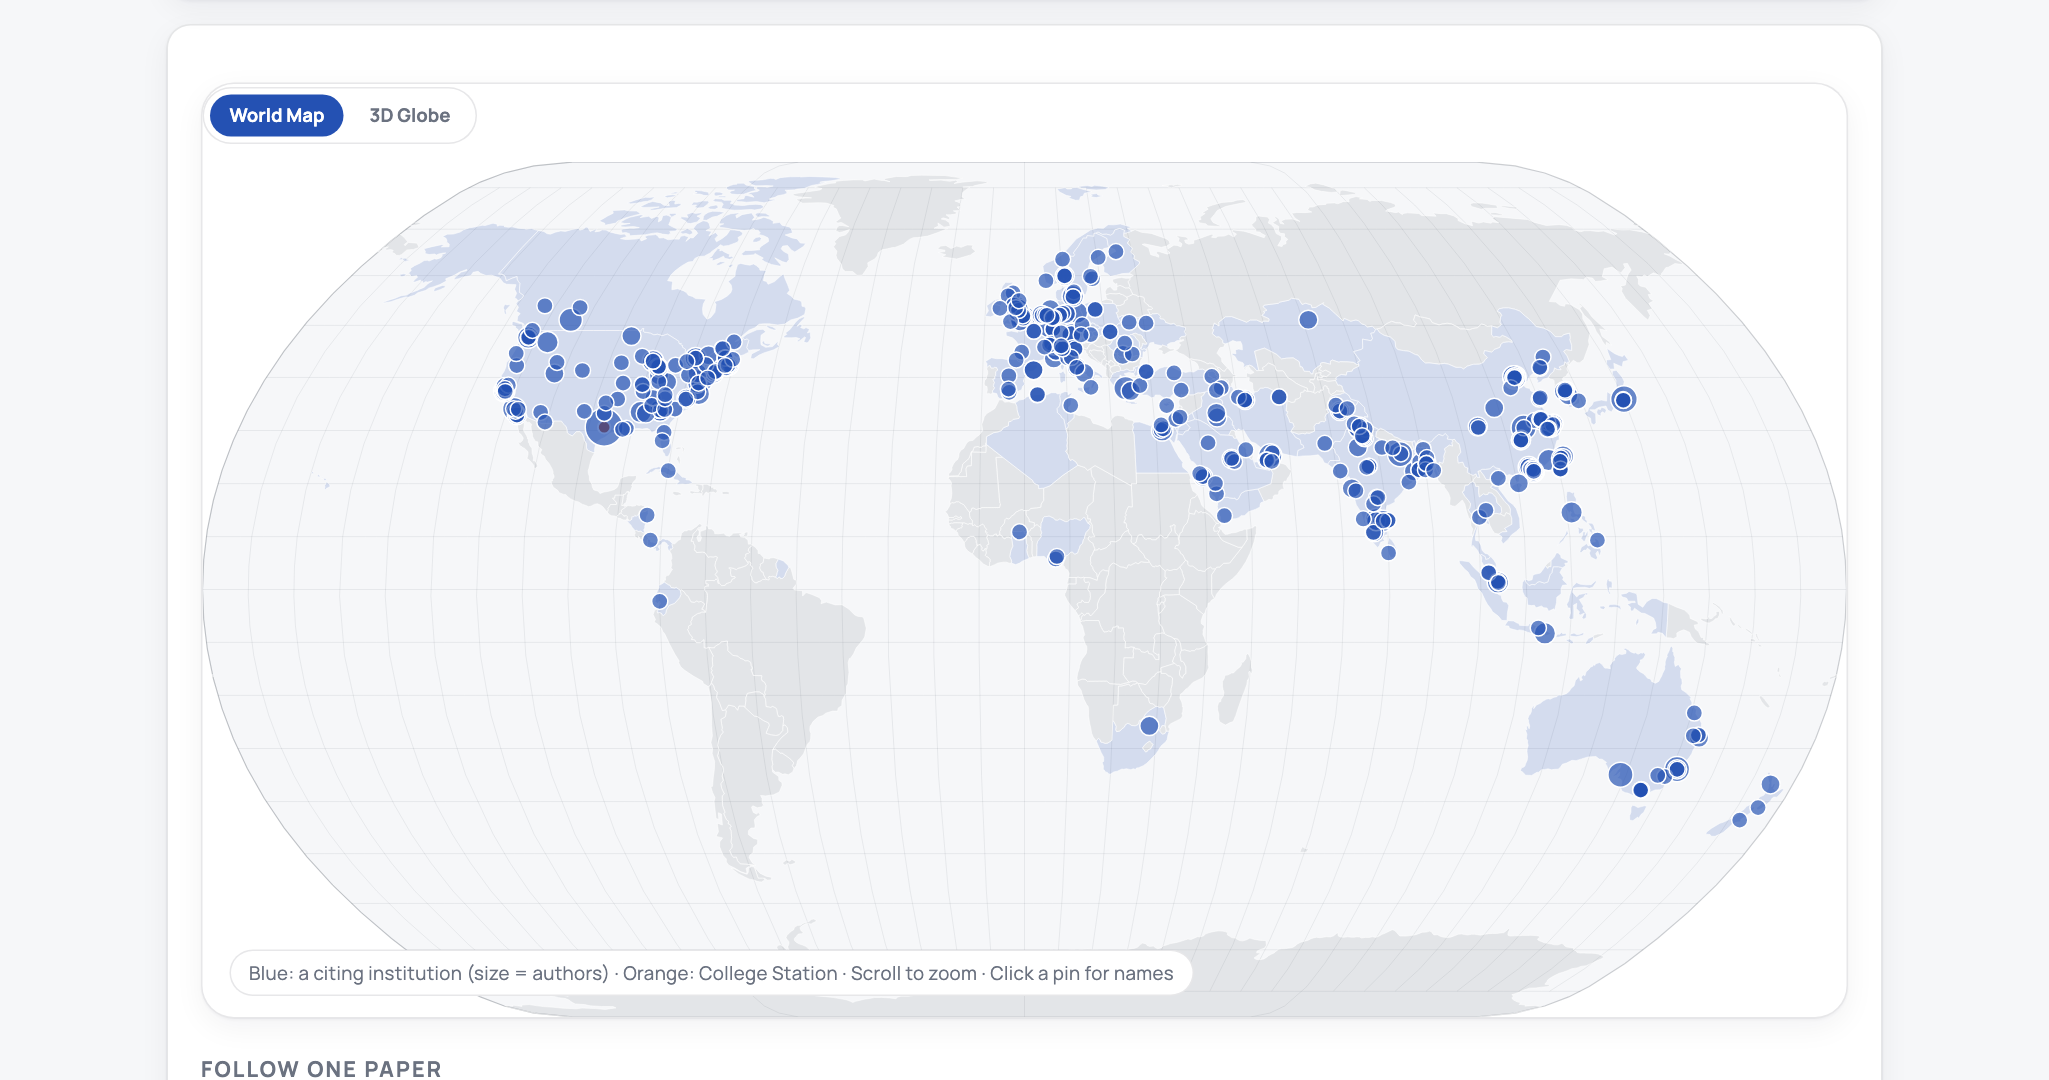
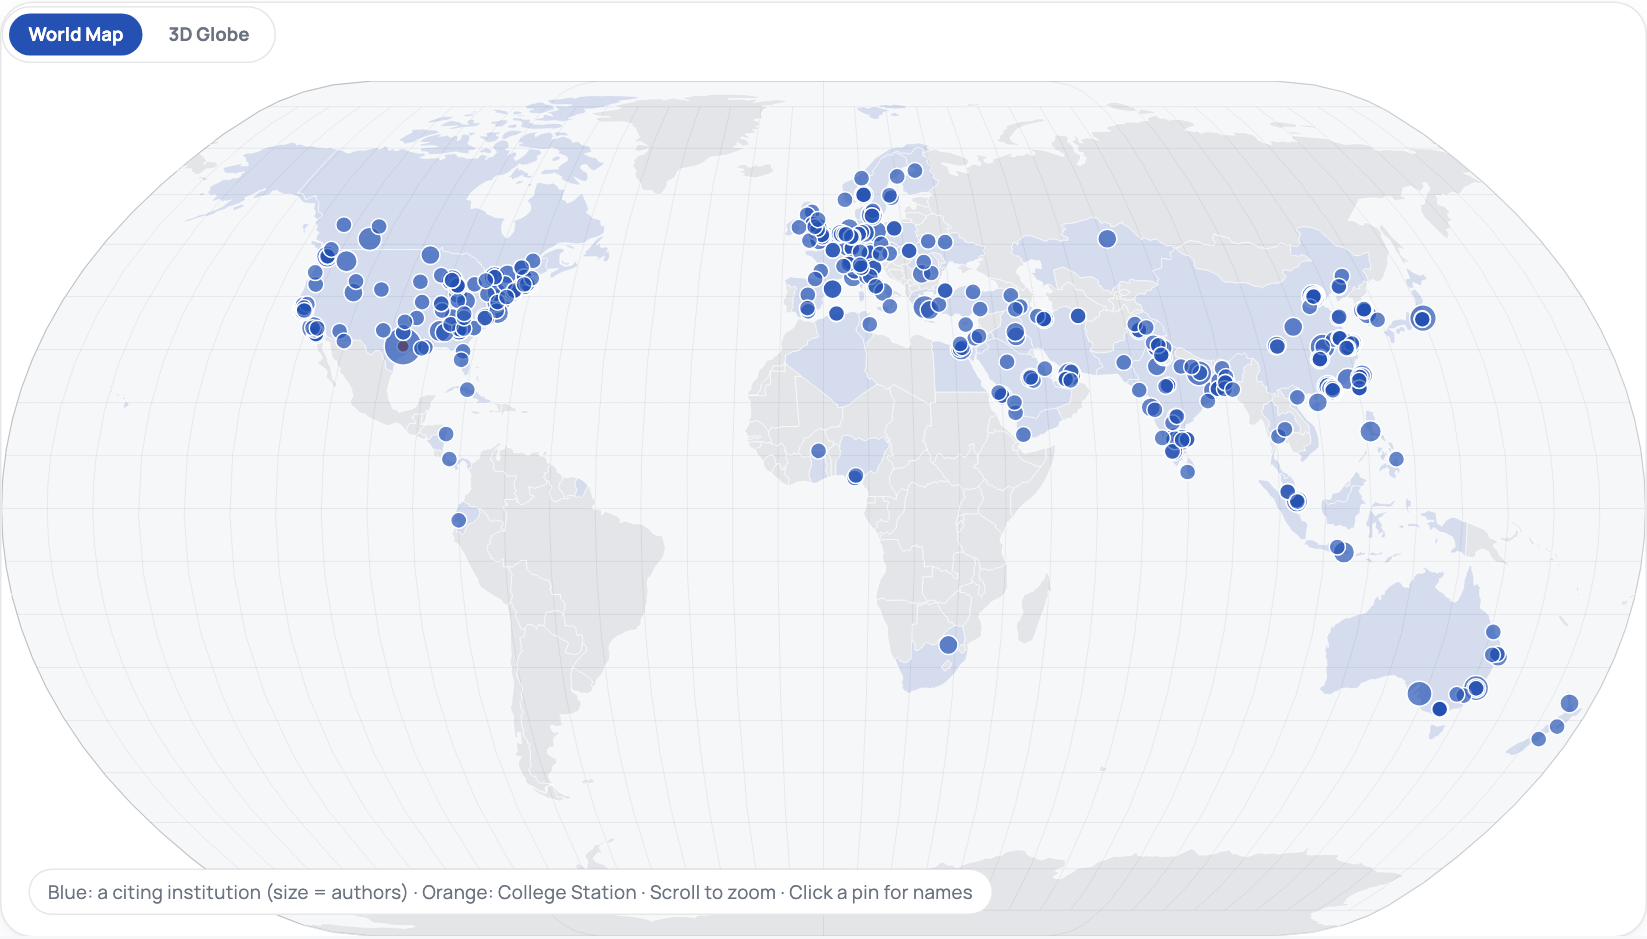
Replace the README travel-map preview under a new filename
GitHub's image proxy keeps serving the old dark screenshot for a reused
path, so the light-theme capture now lives at
assets/travel-map-light-preview.png (full map container, nothing cropped).
The citation-map preview is recaptured the same way.

diff --git a/README.md b/README.md
@@ -75,7 +75,7 @@ The default county-level view lights up every county within a visited state — 
 
 <p align="center">
   <a href="https://rayford295.github.io/rayford-knowledge-atlas/map/">
-    <img src="./assets/travel-map-county-preview.png" alt="County-level U.S. travel map with the 21 states Yifan Yang has visited lit up in blue and city stops in orange" width="920">
+    <img src="./assets/travel-map-light-preview.png" alt="County-level U.S. travel map with the 21 states Yifan Yang has visited lit up in blue and city stops in orange" width="920">
   </a>
 </p>
 
